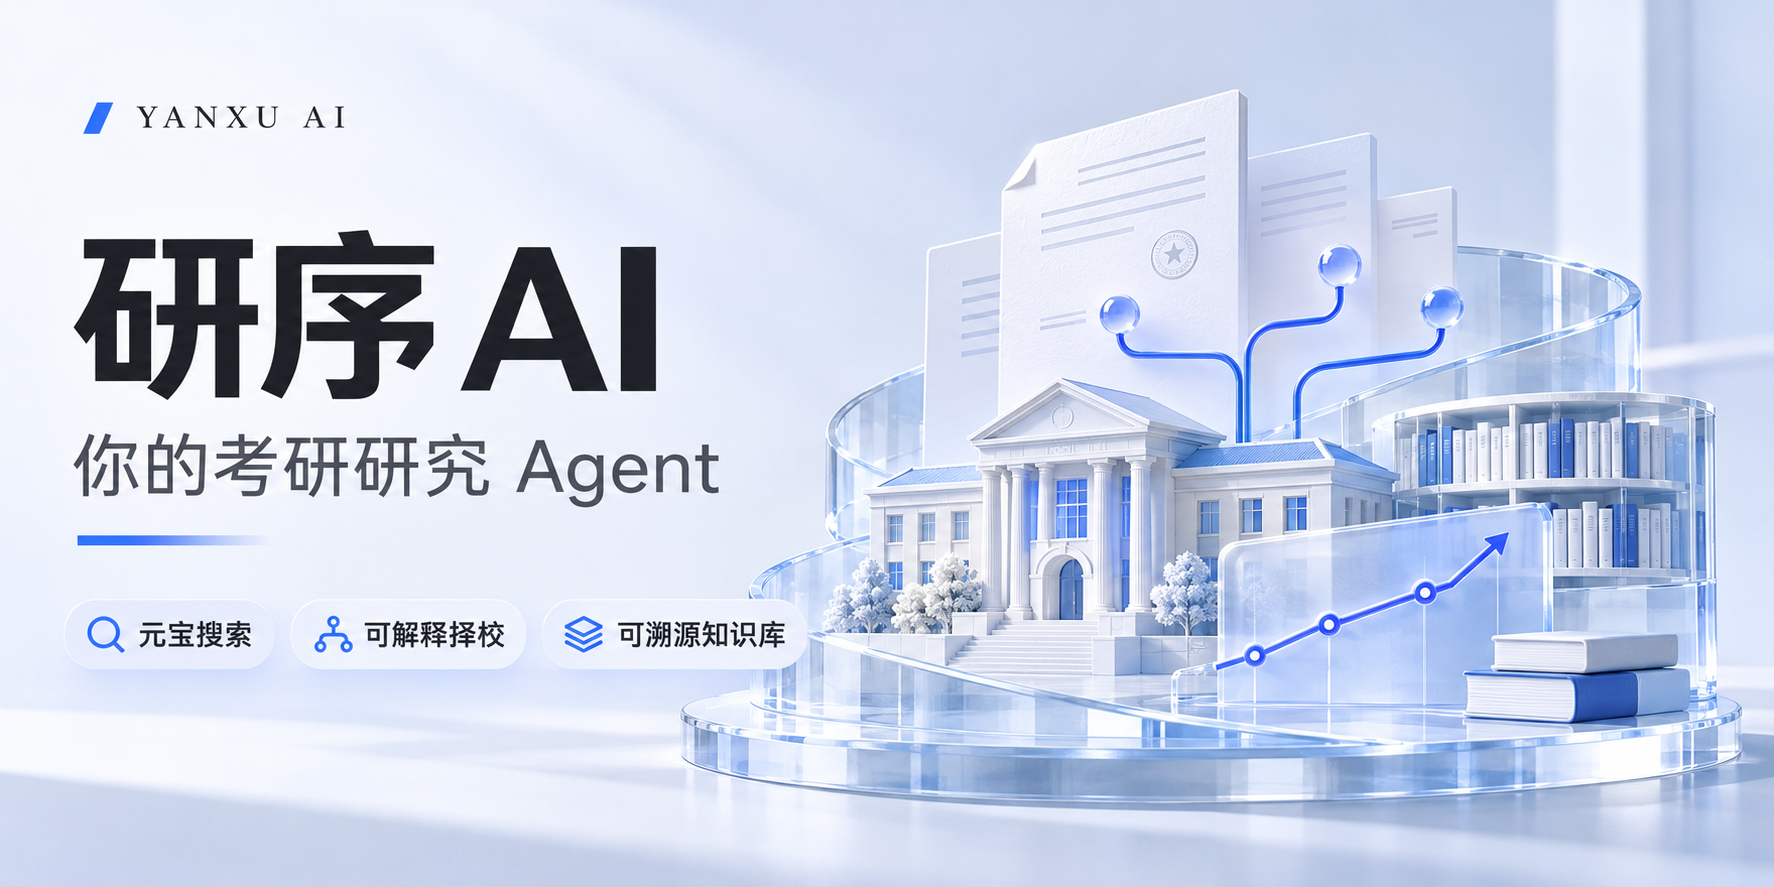
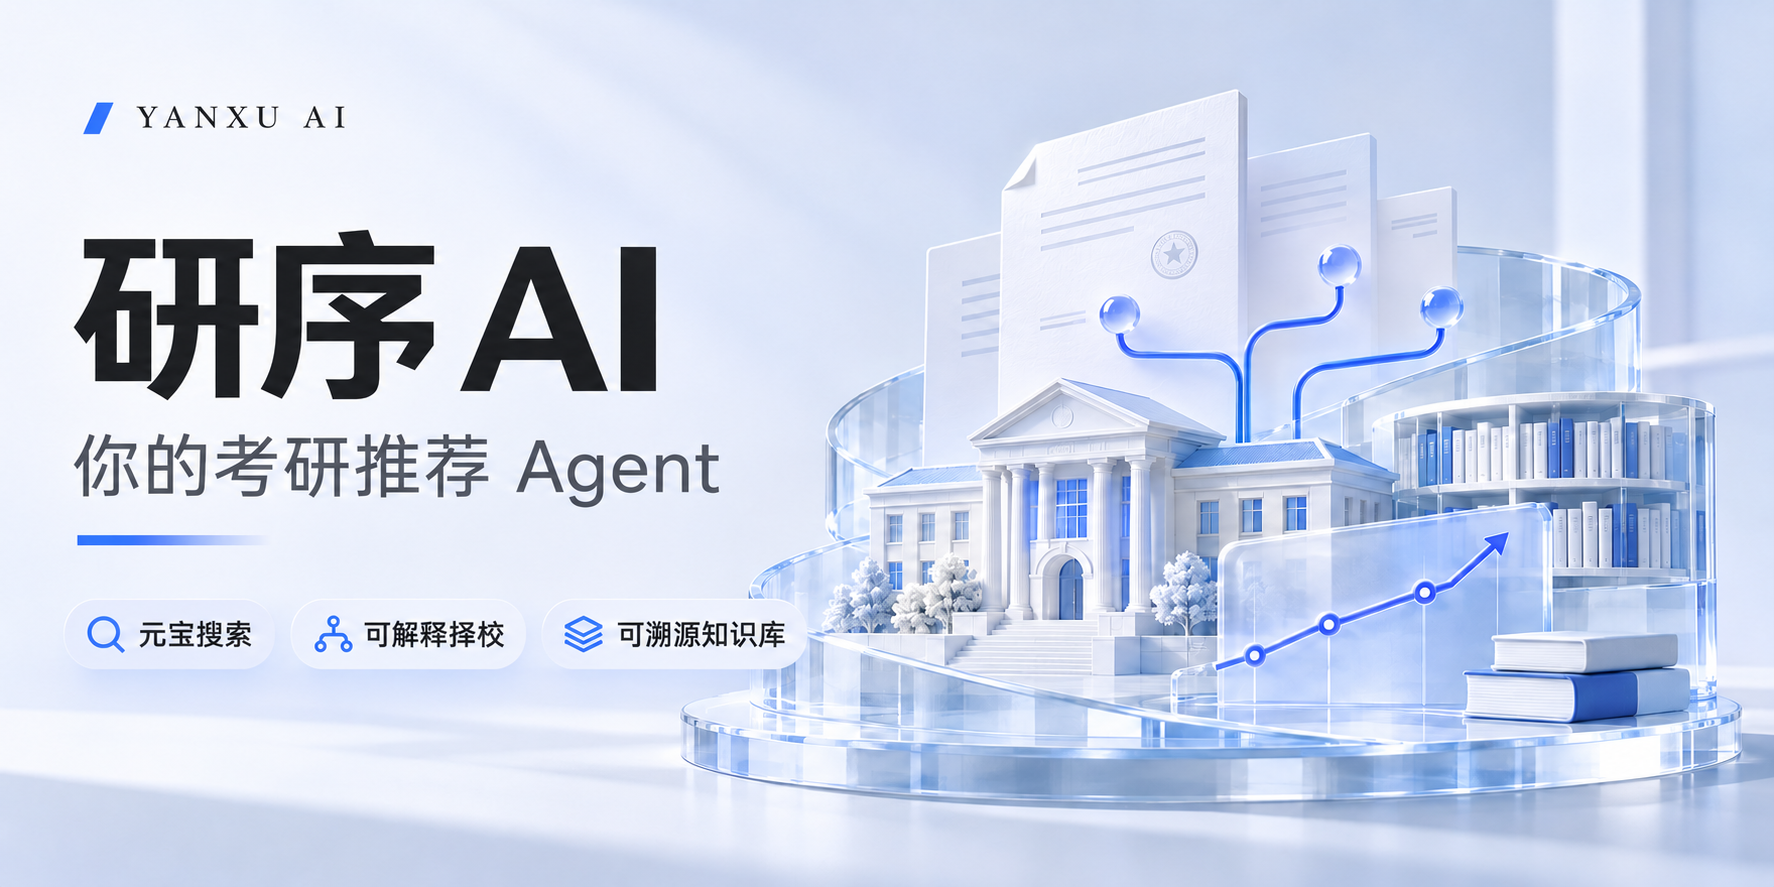
docs: refine recommendation cover and record final validation

diff --git a/docs/assets/cover-prompt.md b/docs/assets/cover-prompt.md
@@ -5,9 +5,9 @@
 - 类型：项目主题视觉封面；系统真实运行截图单独保存在 `screenshots/` 子目录。
 - 尺寸：1774 × 887，2:1；PNG、RGB。
 - 生成日期：2026-11-03。
-- 选版：初版通过视觉检查，无后处理或文字拼贴。
+- 当前版：主题封面生成后，按用户确认用同一内置工具将副标题改为“你的考研推荐 Agent”；保留构图、配色与功能标签。
 
-## 实际提示词
+## 首次生成提示词
 
 ```text
 Use case: ads-marketing.
@@ -27,5 +27,15 @@ Output intent: a genuinely premium, refined, visually memorable open-source proj
 
 ## 检查记录
 
-已核对主标题“研序 AI”、副标题“你的考研研究 Agent”和“元宝搜索 / 可解释择校 / 可溯源知识库”三项功能文字。采用冷白、炭黑与钴蓝，文档、院校建筑、分支路径及知识库组合为统一主体，不展示虚构学校、录取分数或概率。实际界面截图与封面分别维护。
+已核对主标题“研序 AI”、副标题“你的考研推荐 Agent”和“元宝搜索 / 可解释择校 / 可溯源知识库”三项功能文字。采用冷白、炭黑与钴蓝，文档、院校建筑、分支路径及知识库组合为统一主体，不展示虚构学校、录取分数或概率。实际界面截图与封面分别维护。
 
+
+## 当前版副标题编辑
+
+使用内置 `image_gen.imagegen`，通过 `referenced_image_paths` 编辑现有封面，`transparent_background=false`；没有使用项目服务凭据，没有进行程序修图。最终仍为 1774 × 887、2:1、RGB。
+
+```text
+Use case: text-localization. Edit the attached existing README cover. Change only the subtitle text from “你的考研研究 Agent” to the exact text “你的考研推荐 Agent”. Preserve every other visual element as faithfully as possible: main headline “研序 AI”, small “YANXU AI” label, three feature labels “元宝搜索”, “可解释择校”, “可溯源知识库”, their typefaces and placement, all colors, lighting, spacing, university architecture, glass platform and shelves, documents, branching knowledge paths, trend line, shadows and background. The subtitle must keep the same typography, weight, size, color, baseline and position; only replace the two Chinese characters 研究 with 推荐. Keep the original wide 2:1 composition and preferably the exact 1774×887 canvas. Do not crop, zoom, redesign, embellish or move anything. No new text, labels, logos, watermark or decorative elements. Opaque background, preserve the original image quality. Exact final subtitle: “你的考研推荐 Agent”.
+```
+
[1 lines of base64/hex data omitted]

diff --git a/docs/VERIFICATION.md b/docs/VERIFICATION.md
@@ -9,7 +9,8 @@
 | 完整开发留档 Python 回归 | 使用隔离虚拟环境执行 1,352 项，0 失败，1 项 Windows 权限限制跳过；不是公开资料包具有全部私人历史留档的承诺 |
 | 干净检出 HTTP 与算法 | 临时端口 7 项通过：已发布目录、四考试单元、公开历史范围、郑大学费原句/页码/官方链接与 2 个原文件 SHA、空连接/知识库，以及实际路线 7 / 12 / 173；未启动订阅 worker，无外部请求，结束已关闭服务 |
 | 干净检出核心回归 | README 列出的 5 个核心模块共 136 项，0 失败，1 项目录 symlink 创建权限跳过；源码导入来自干净检出 |
-| 前端 Node 回归 | 开发目录和干净检出均为 164 项通过 |
+| 前端 Node 回归 | 开发目录和干净检出均为 164 项通过；测试假值移为明确常量后再次 164 项通过 |
+| 发布用浏览器回归 | Agent 10、模型选择 5、元宝双鉴权 7，共 22 项显式夹具通过；无 JS 错误、漏出的真实 POST 或外网请求；真实本机配置未改 |
 | 公开包离线恢复 | 9 个包、6,521 个文件；归档与成员 SHA 校验后恢复，不读取凭据、不联网、不启动模型 |
 | 干净检出首次发布 | 短路径 Windows 检出离线重建成功；22,356 条专业方向、936 条索引、931 个年度单位、4,611 份文档，0 条无效原文记录、0 个冲突暂停字段；17 个 PDF 来源通过语义批准，51 个单位全校目录对账通过，发布仍保留 catalog_partial |
 | 新增恢复与打包工具 | 23 项回归，1 项 Windows symlink 权限跳过；含分支综合覆盖率 95% |
@@ -22,7 +23,7 @@
 
 Windows 原文重放实际使用 PATH 中 Xpdf 4.00，以及 GRAD_PDFTOTEXT 指定的 Poppler 26.07.0。首次深嵌套验证副本因旧提取器无法打开长路径失败，随后改为系统临时目录的短路径验证成功；本机首次完整原文重放约 12 分钟，两个工具不能互换。安装步骤和已核对来源见 [运行说明](RUNNING.md)。跨平台相同资料的完整重放未在本次验证。
 
-本轮未读取或修改其他项目凭据，没有重放用户研究任务，也没有执行新的真实模型或元宝付费请求。完整 Agent 的供应商工具兼容性、当前服务额度、实际报考资格和全国历史数据覆盖不能由以上本地回归推定。
+本轮未读取或修改其他项目凭据，没有重放用户研究任务，也未使用项目连接触发新的模型推理或元宝检索。封面使用单独的内置图像工具生成和编辑。完整 Agent 的供应商工具兼容性、当前服务额度、实际报考资格和全国历史数据覆盖不能由以上本地回归推定。
 
 ## 此前阶段记录
 

diff --git a/README.md b/README.md
@@ -224,6 +224,7 @@ python -X utf8 server.py --port 4180
 | [运行说明](docs/RUNNING.md) | 安装、数据恢复与发布、配置、开发和测试 |
 | [Agent 实现契约](docs/AGENT_UPGRADE_PLAN.md) | 工具白名单、任务轮次、条件确认、Skill、预算和取消语义 |
 | [实际验证记录](docs/VERIFICATION.md) | 区分本地原文、算法、接口夹具与真实服务调用的验证范围 |
+| [封面与生成记录](docs/assets/cover-prompt.md) | 复用视觉方向、当前文案与实际图像生成提示词 |
 
 ```text
 yanxu-ai/
